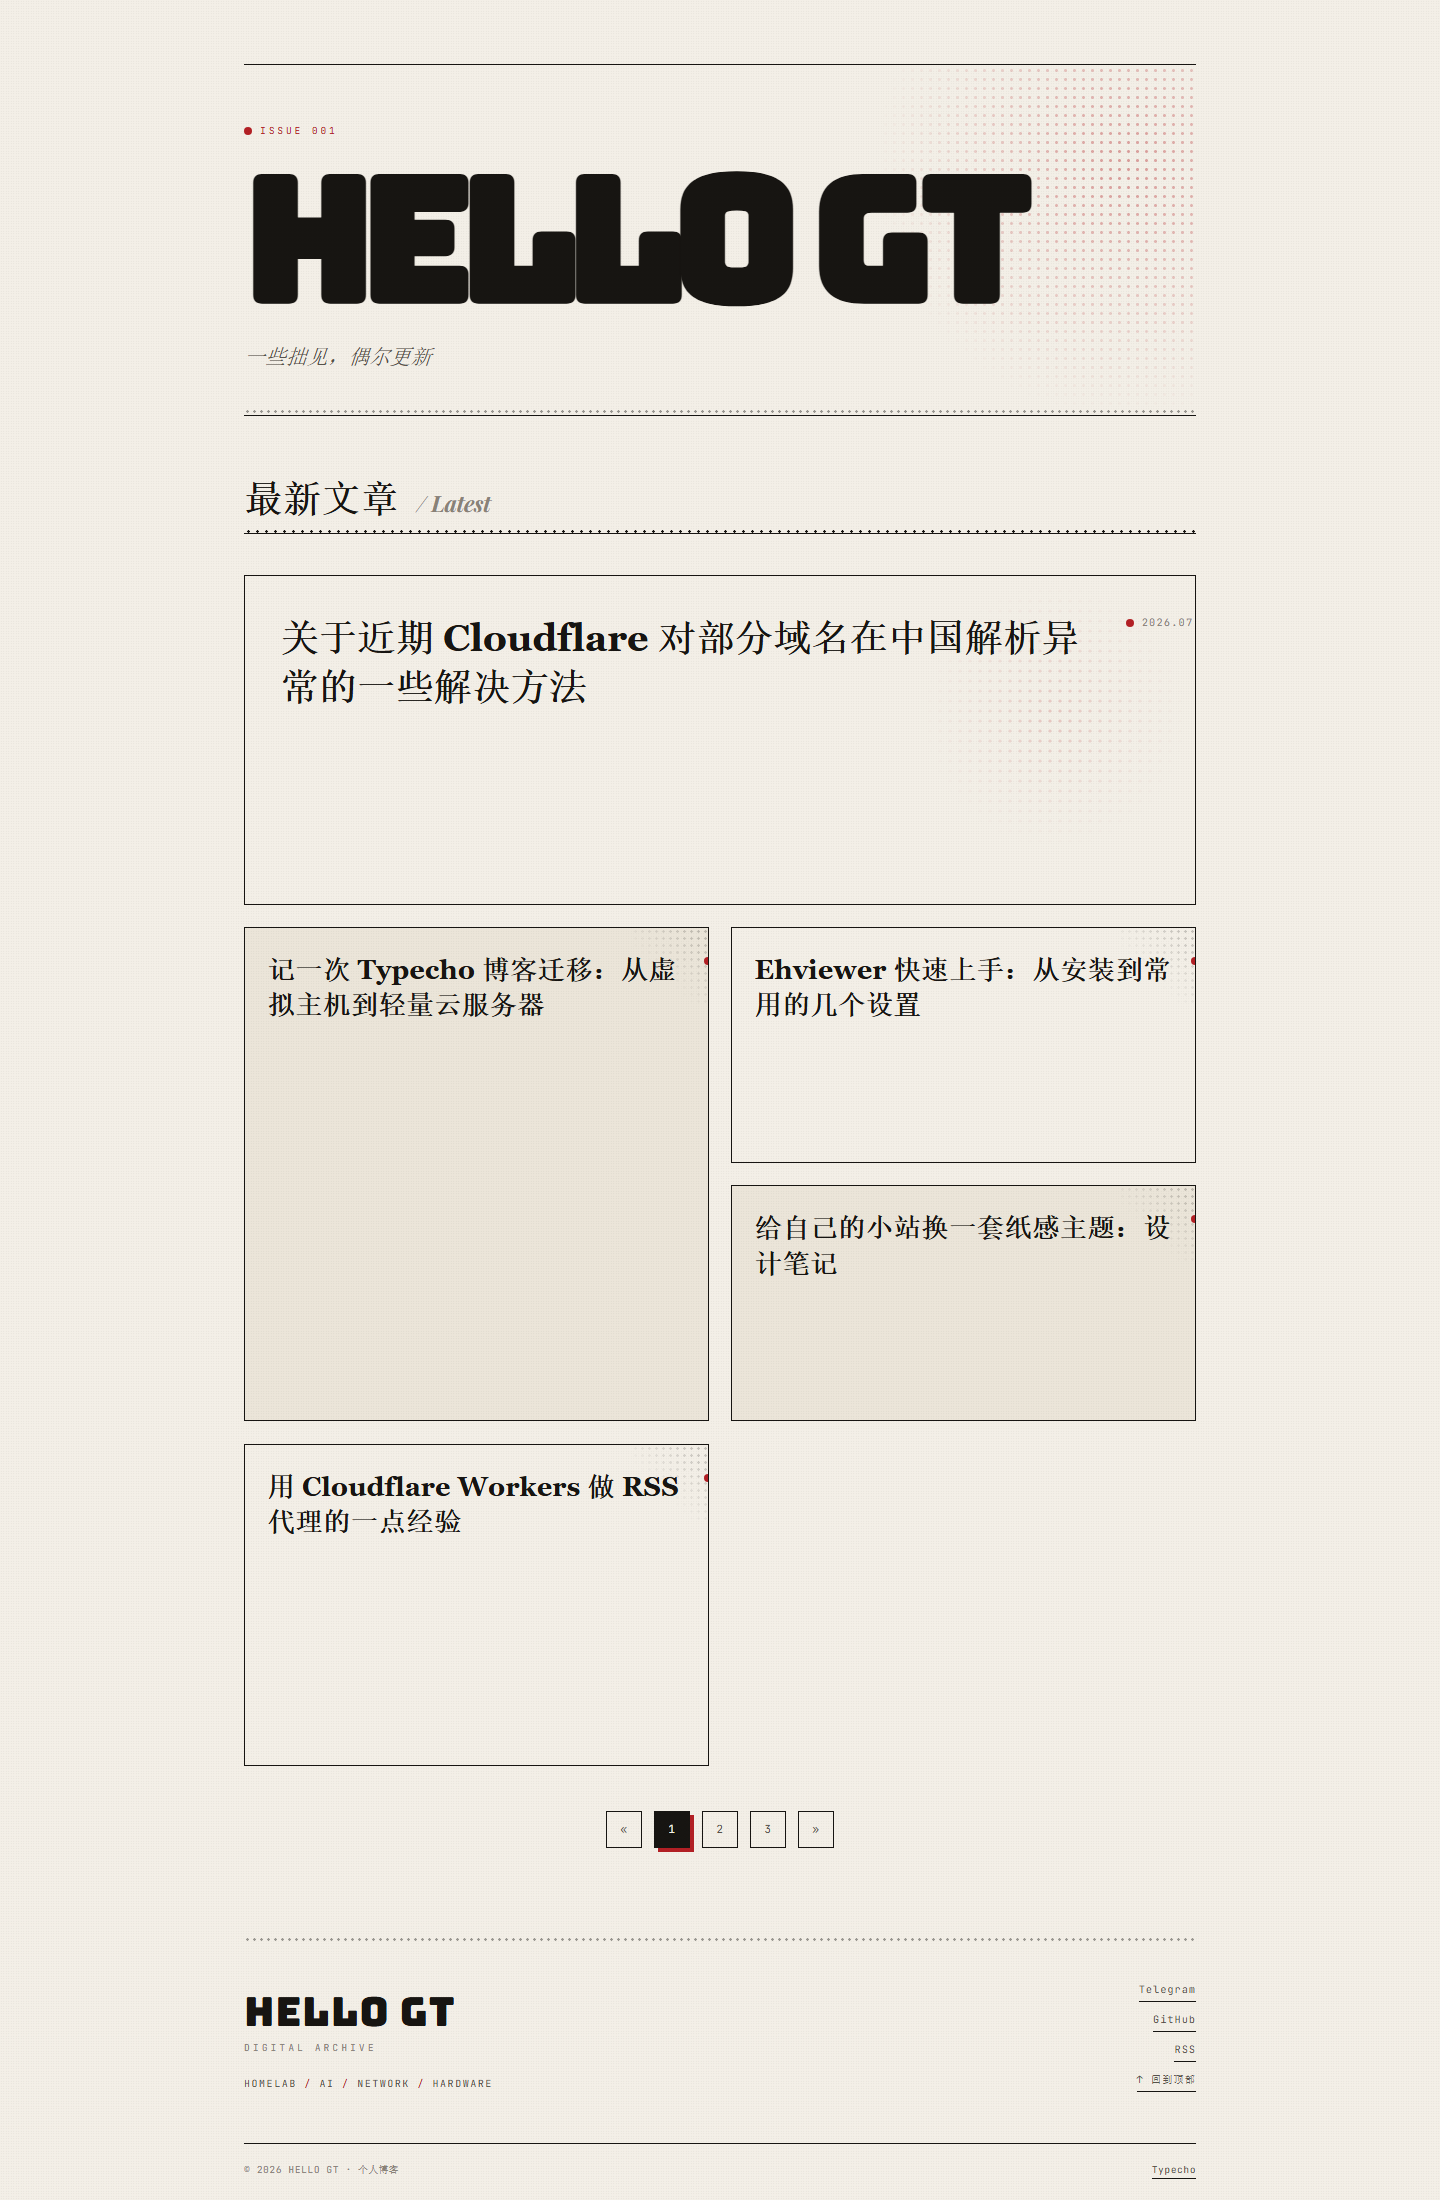
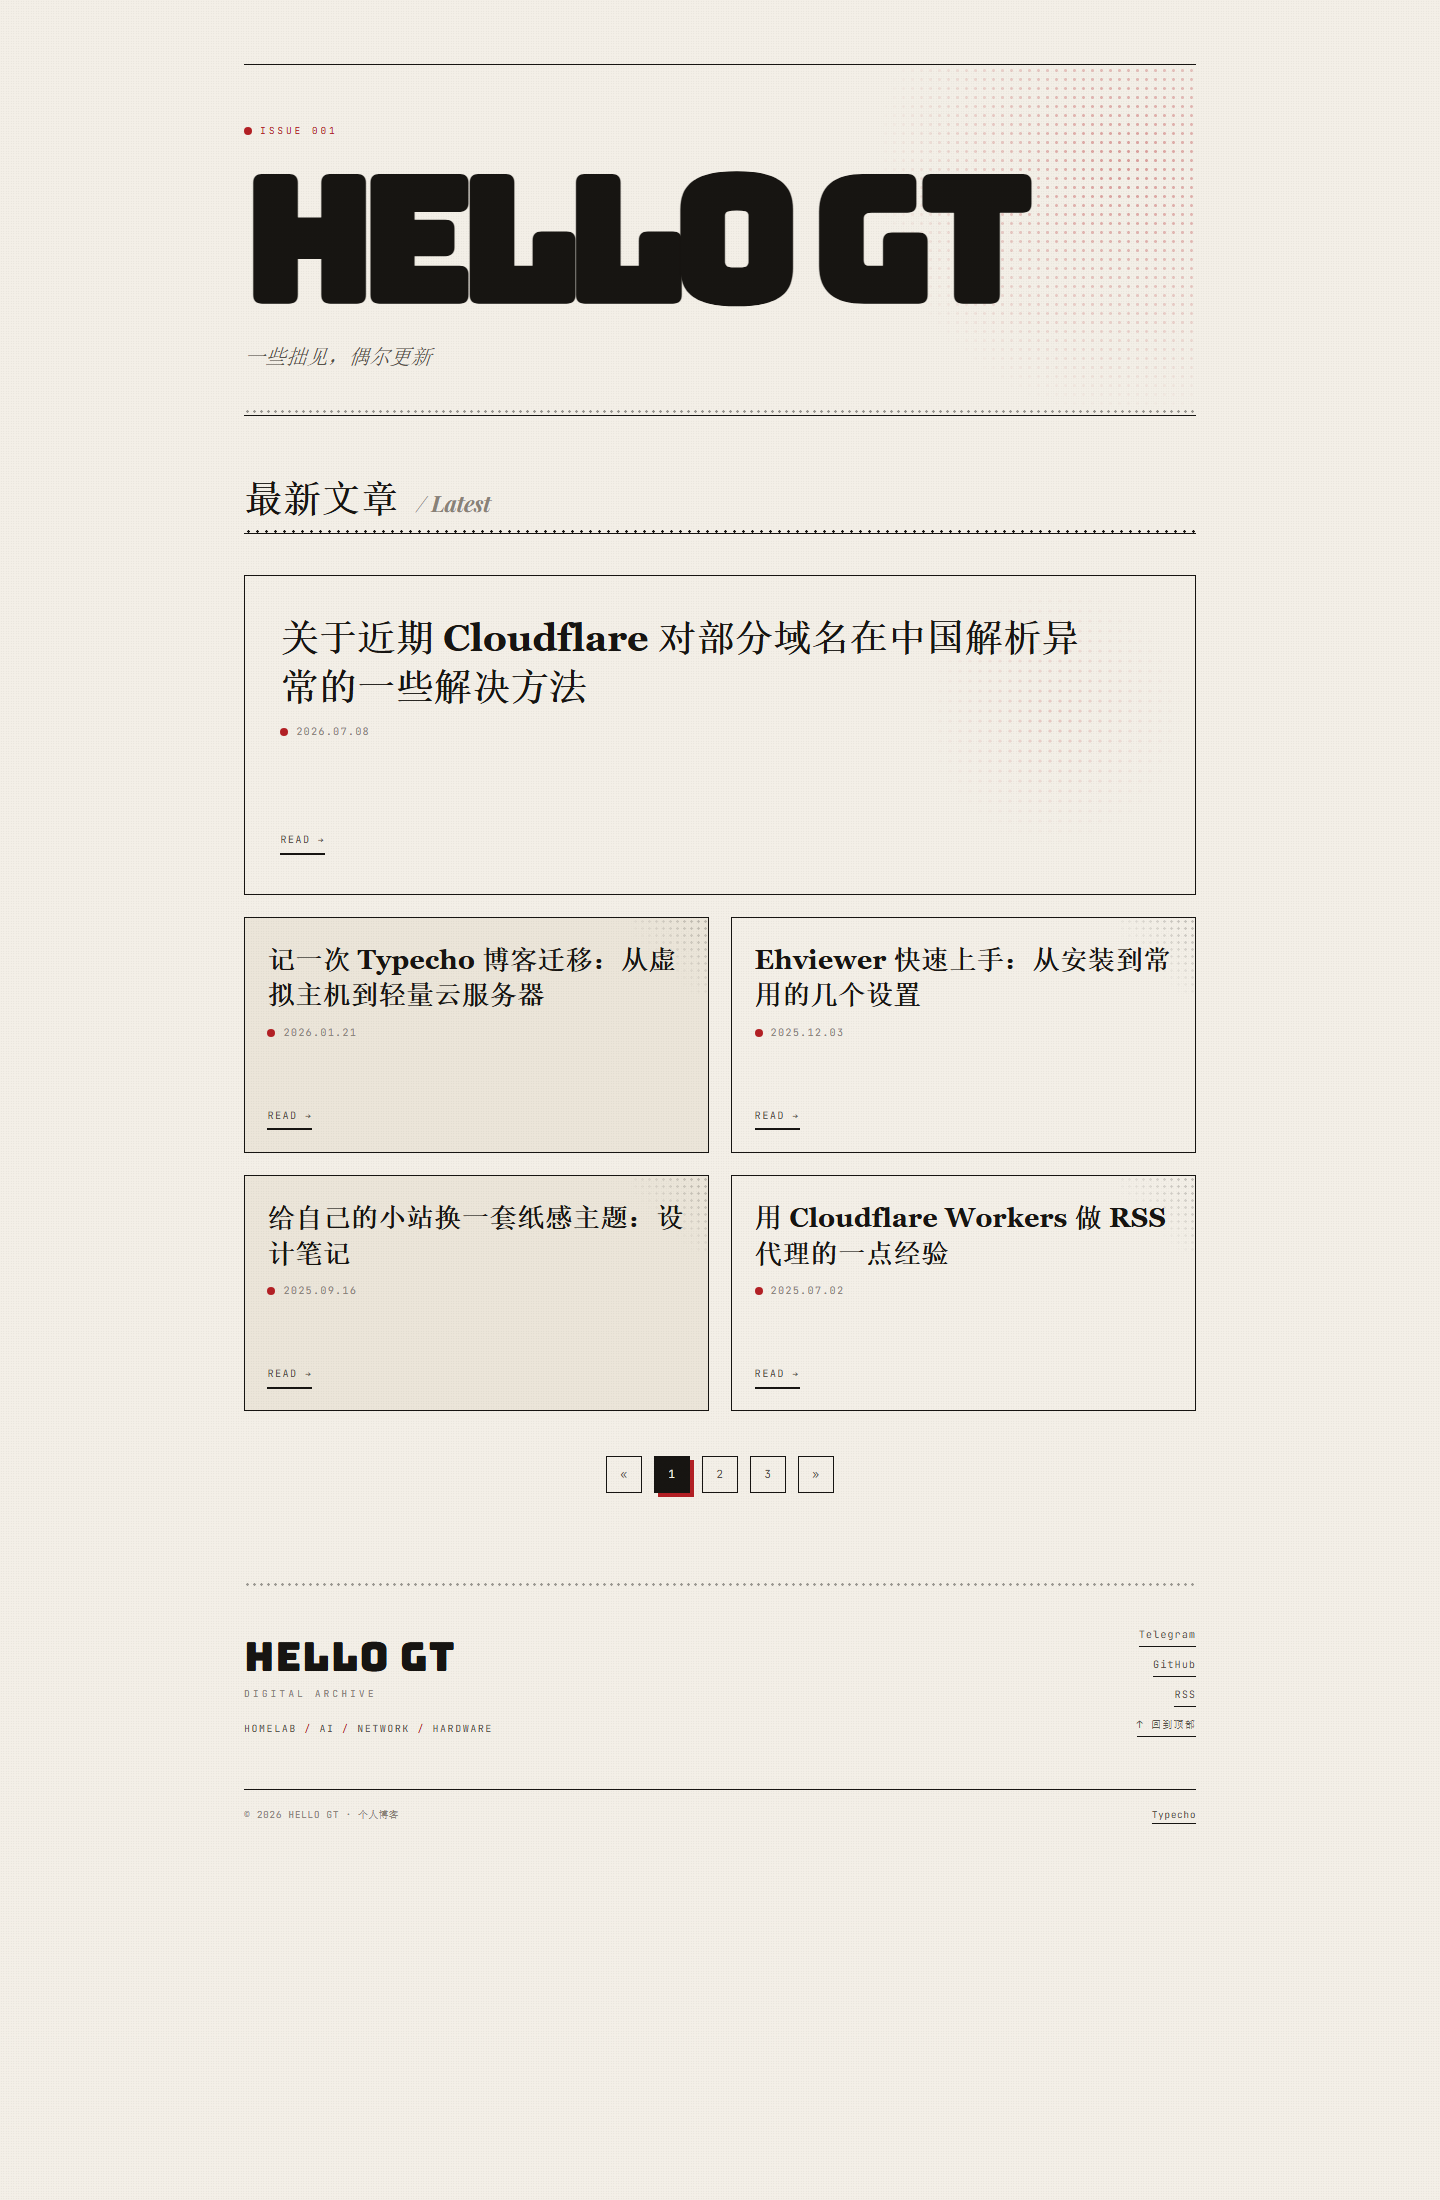
fix(home): uniform card heights, pin READ to card bottom (remove mosaic span overflow)

diff --git a/style.css b/style.css
@@ -432,7 +432,6 @@ img {
   position: relative;
   display: flex;
   flex-direction: column;
-  justify-content: space-between;
   gap: 0.7rem;
   min-height: 236px;
   padding: 1.5rem 1.4rem 1.35rem;
@@ -1672,19 +1671,13 @@ img {
 
 /* ---------- 马赛克错落网格 ---------- */
 .issue-grid {
-  grid-auto-flow: dense;
-  grid-auto-rows: minmax(150px, auto);
   gap: 1.4rem;
-}
-.issue-card:nth-child(3n + 2):not(.featured) {
-  grid-row: span 2;
-  min-height: 320px;
 }
 .issue-card:nth-child(even):not(.featured) {
   background: var(--paper-2);
 }
 .issue-card.featured {
-  min-height: 330px;
+  min-height: 320px;
   padding: 2.4rem 2.2rem;
 }
 .issue-card.featured .issue-card-title {
@@ -1695,13 +1688,6 @@ img {
 }
 
 @media (max-width: 768px) {
-  .issue-grid {
-    grid-auto-rows: auto;
-  }
-  .issue-card:nth-child(3n + 2):not(.featured) {
-    grid-row: auto;
-    min-height: 220px;
-  }
   .issue-card.featured {
     grid-column: auto;
     min-height: 260px;
@@ -1769,43 +1755,52 @@ img {
   margin-right: 0.9rem;
 }
 
-/* ---------- issue-card：编号 / 标题 / META 一行 ---------- */
+/* ---------- issue-card：标题 / 摘要 / 日期 / READ ---------- */
 .issue-card {
-  flex-wrap: wrap;
+  align-items: flex-start;
 }
-.issue-number {
-  flex: 1 0 100%;
-  order: 1;
+.issue-card > * {
+  position: relative;
+  z-index: 1;
 }
 .issue-card-title {
-  flex: 1 0 100%;
-  order: 2;
+  font-family: var(--rss-serif);
+  font-size: clamp(1.35rem, 2.6vw, 1.7rem);
+  font-weight: 900;
+  line-height: 1.3;
+  color: var(--ink);
+}
+.issue-card.featured .issue-card-title {
+  font-size: clamp(1.75rem, 3.6vw, 2.35rem);
+  max-width: 22em;
 }
 .issue-excerpt {
-  order: 3;
-  flex: 1 0 100%;
   font-size: 0.86rem;
   line-height: 1.7;
   color: var(--ink-3);
 }
-.issue-kicker {
-  order: 4;
-  flex: 0 0 auto;
-}
-.issue-kicker::after {
-  content: " /";
-  margin-left: 0.45rem;
+.issue-date {
+  display: inline-flex;
+  align-items: center;
+  font-family: var(--mono);
+  font-size: 0.64rem;
+  letter-spacing: 0.12em;
   color: var(--ink-3);
 }
-.issue-date {
-  order: 5;
-  flex: 0 0 auto;
-  margin-left: 0.45rem;
-}
 .issue-more {
-  order: 6;
-  flex: 1 0 100%;
   margin-top: auto;
+  font-family: var(--mono);
+  font-size: 0.64rem;
+  letter-spacing: 0.14em;
+  text-transform: uppercase;
+  color: var(--ink-2);
+  border-bottom: 2px solid var(--ink);
+  padding-bottom: 0.25rem;
+  transition: color 0.25s, border-color 0.25s;
+}
+.issue-card:hover .issue-more {
+  color: var(--accent);
+  border-color: var(--accent);
 }
 
 /* ---------- LAB 页面 ---------- */
